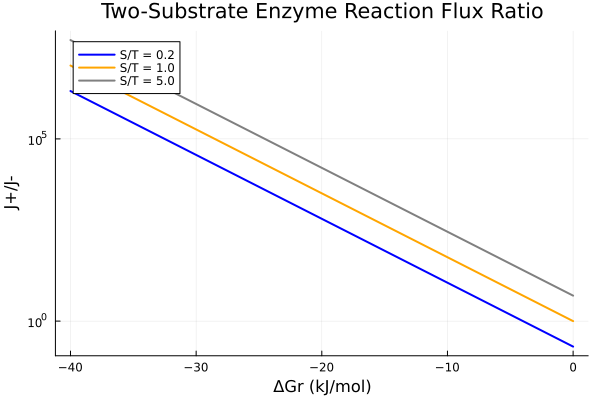
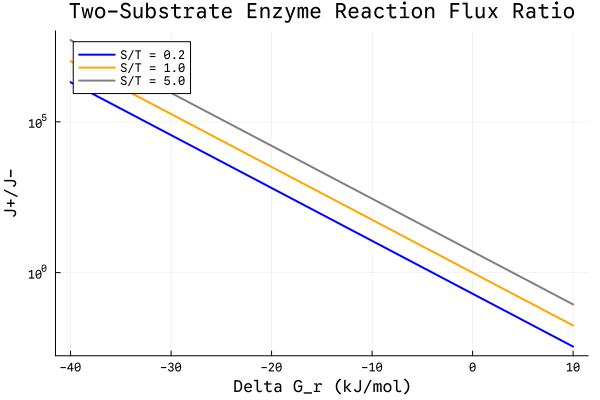
806 Update README, fix plot, enhance code comments

diff --git a/README.md b/README.md
@@ -16,6 +16,7 @@ S + T + E <=> EST <=> E + P + Q
 ```
 
 Where:
+
 - S, T: Substrates
 - E: Enzyme
 - EST: Enzyme-substrate complex
@@ -38,6 +39,7 @@ v = (Vmf*S*T/(Ks*Kt) - Vmr*P*Q/(Kp*Kq)) / (1 + S*T/(Ks*Kt) + P*Q/(Kp*Kq))
 ```
 
 Where:
+
 - `Vmf = k2f * Etot`: Maximum forward velocity
 - `Vmr = k1r * Etot`: Maximum reverse velocity
 - `Ks = (k1r + k2f) / k1f`: Michaelis constant for substrate S
@@ -60,62 +62,29 @@ J+/J- = e^(-ΔGr/RT) = Keq/Q
 
 ## Comparison with Single-Substrate Reaction
 
-| Item | Single-Substrate Reaction | Two-Substrate Reaction |
-|------|---------------------------|------------------------|
-| Reaction | S + E <=> ES <=> E + P | S + T + E <=> EST <=> E + P + Q |
-| Rate Equation | v = (Vmf*[S]/Ks - Vmr*[P]/Kp) / (1 + [S]/Ks + [P]/Kp) | v = (Vmf*[S][T]/(Ks*Kt) - Vmr*[P][Q]/(Kp*Kq)) / (1 + [S][T]/(Ks*Kt) + [P][Q]/(Kp*Kq)) |
-| Reaction Quotient | Q = [P]/[S] | Q = [P][Q]/([S][T]) |
+| Item              | Single-Substrate Reaction                             | Two-Substrate Reaction                                                                    |
+| ----------------- | ----------------------------------------------------- | ----------------------------------------------------------------------------------------- |
+| Reaction          | S + E <=> ES <=> E + P                                | S + T + E <=> EST <=> E + P + Q                                                           |
+| Rate Equation     | v = (Vmf*[S]/Ks - Vmr*[P]/Kp) / (1 + [S]/Ks + [P]/Kp) | v = (Vmf*[S][T]/(Ks*Kt) - Vmr*[P][Q]/(Kp*Kq)) / (1 + [S][T]/(Ks*Kt) + [P][Q]/(Kp*Kq)) |
+| Reaction Quotient | Q = [P]/[S]                                           | Q = [P][Q]/([S][T])                                                                       |
 
 ## Running the Project
 
 1. Install dependencies:
+
 ```julia
 using Pkg
 Pkg.instantiate()
 ```
 
 2. Run main derivation:
+
 ```julia
 include("main.jl")
 ```
 
-3. Run detailed derivation:
-```julia
-include("derivation.jl")
-```
+3. Run numerical simulation:
 
-4. Run numerical simulation:
 ```julia
 include("simulation.jl")
 ```
-
-## Output Files
-
-- `flux_ratio_plot.png`: Plot of flux ratio vs Gibbs free energy change
-- `simulation_results.png`: Numerical simulation results plot
-
-## Key Findings
-
-1. **Two-Substrate Effect**: The substrate term changes from `[S]/Ks` to `[S][T]/(Ks*Kt)`, reflecting the cooperative effect of two substrates.
-
-2. **Product Inhibition**: The product term changes from `[P]/Kp` to `[P][Q]/(Kp*Kq)`, indicating the inhibitory effect of two products on the reaction.
-
-3. **Thermodynamic Consistency**: The relationship between flux ratio and Gibbs free energy change remains unchanged, consistent with thermodynamic principles.
-
-4. **Steady-State Assumption**: When enzyme concentration is much smaller than substrate concentration, the steady-state assumption holds, and the derivation results are highly consistent with numerical simulation.
-
-## Applications
-
-This derivation result can be applied to:
-- Two-substrate enzyme reaction kinetics analysis
-- Metabolic network modeling
-- Bioreactor design
-- Enzyme inhibitor research
-
-## References
-
-This work references the derivation method for single-substrate reversible enzyme reactions shown in the figure, extending it to the two-substrate two-product case. This method is based on:
-- Michaelis-Menten kinetics
-- Steady-state assumption
-- Basic thermodynamic principles
-- Flux balance analysis 
